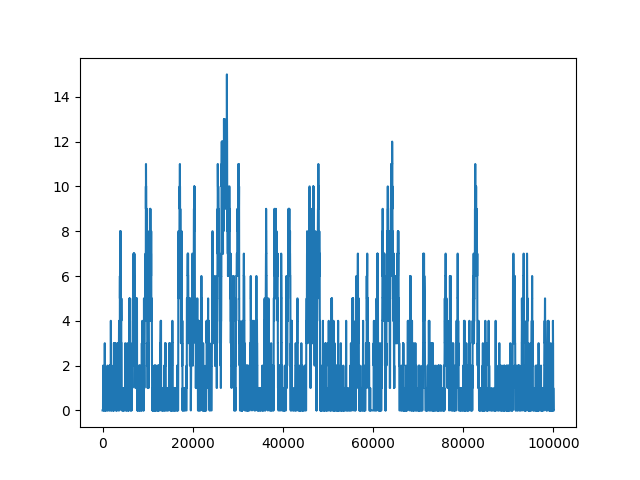
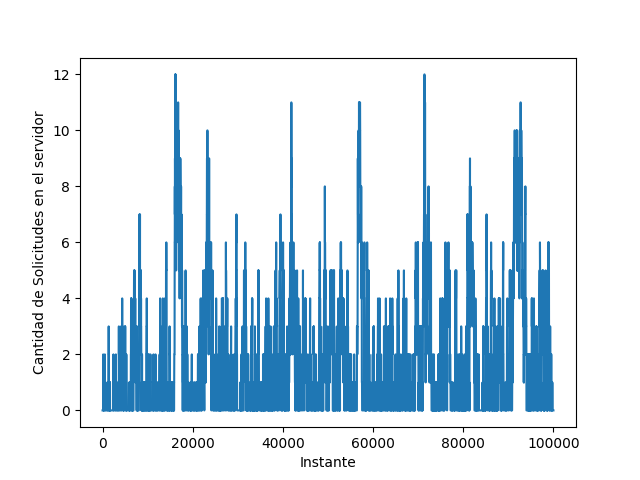
Add labels to axes

diff --git a/TP-2/Ejercicio2.py b/TP-2/Ejercicio2.py
@@ -36,20 +36,28 @@ def simular(ms):
 
 
 tiempo = 100000
-print("b. Realice un gráfico mostrando la cantidad de solicitudes en el servidor en cada instante de tiempo.")
+print("c. Realice un gráfico mostrando la cantidad de solicitudes en el servidor en cada instante de tiempo.")
 tiempos, estados, cantidadVecesInactiva = simular(tiempo)
 plt.plot(tiempos, estados)
+plt.xlabel('Instante')
+plt.ylabel('Cantidad de Solicitudes en el servidor')
 plt.savefig(sys.path[0] + "/E02-cantidad-solicitudes-por-instante.png")
+plt.clf()
+plt.cla()
+plt.close()
 
-print("c. Realice un histograma mostrando cuantas veces el sistema estuvo en cada estado")
+print("d. Realice un histograma mostrando cuantas veces el sistema estuvo en cada estado")
 plt.figure(figsize=(15,9))
 plt.hist(estados)
+plt.xlabel('Cantidad de Solicitudes en el servidor')
+plt.ylabel('Instante')
+plt.ticklabel_format(style='plain')
 plt.savefig(sys.path[0] + "/E02-cantidad-solicitudes-histograma.png")
 plt.clf()
 plt.cla()
 plt.close()
 
-print("d. Determine el % de tiempo que el servidor se encuentra sin procesar solicitudes")
+print("e. Determine el % de tiempo que el servidor se encuentra sin procesar solicitudes")
 
 # Realizo 1000 simulaciones
 cantidad_simu = 1000
@@ -59,10 +67,10 @@ for x in rango_simulaciones:
 	tiempos, estados, cantidadVecesInactiva = simular(tiempo)
 	cantidades_inactivas.append(cantidadVecesInactiva)
 
-print (max(cantidades_inactivas))
-print (min(cantidades_inactivas))
 plt.figure(figsize=(15,9))
 plt.plot( rango_simulaciones, cantidades_inactivas)
+plt.xlabel('Número de simulación')
+plt.ylabel('Cantidad de veces con sistema inactivo')
 plt.savefig(sys.path[0] + "/E02-cantidad-veces-inactivas-por-instante.png") 
 print("Minimo veces inactivas", max(cantidades_inactivas))
 print("Maximo de veces inactivas", min(cantidades_inactivas) )
